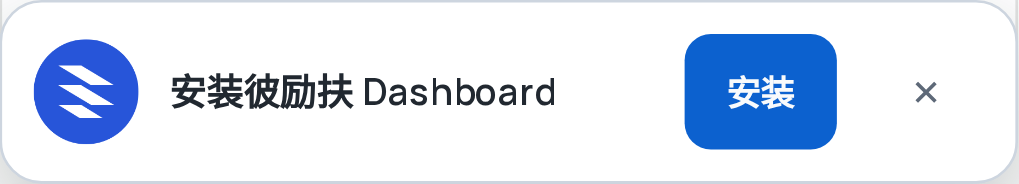
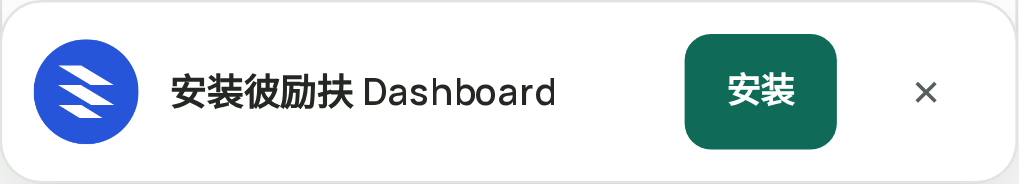
fix(前端): 修正 PWA 安装提示的 Dock 避让与主题

Changed region(s): [[0.6693, 0.163, 0.8214, 0.8152], [0.8822, 0.462, 0.9431, 0.5435]]

diff --git a/frontend/components/pwa/pwa-install-prompt.module.css b/frontend/components/pwa/pwa-install-prompt.module.css
@@ -52,7 +52,7 @@
   line-height: 1.45;
 }
 
-.install {
+.prompt .install {
   min-height: 44px;
   padding: 0 16px;
   color: var(--warm-ledger-color-on-accent, hsl(var(--primary-foreground)));
@@ -65,12 +65,12 @@
   cursor: pointer;
 }
 
-.install:disabled {
+.prompt .install:disabled {
   cursor: wait;
   opacity: 0.7;
 }
 
-.close {
+.prompt .close {
   display: inline-grid;
   width: 44px;
   height: 44px;
@@ -86,14 +86,14 @@
   cursor: pointer;
 }
 
-.install:focus-visible,
-.close:focus-visible {
+.prompt .install:focus-visible,
+.prompt .close:focus-visible {
   outline: 2px solid
     var(--warm-ledger-focus-color, hsl(var(--ring)));
   outline-offset: 2px;
 }
 
-@media (max-width: 430px) {
+@media (max-width: 767px) {
   .shell {
     bottom: calc(78px + env(safe-area-inset-bottom, 0px));
   }

diff --git a/frontend/components/pwa/pwa-install-prompt.test.tsx b/frontend/components/pwa/pwa-install-prompt.test.tsx
@@ -100,7 +100,9 @@ describe('PwaInstallPrompt', () => {
 
     render(<PwaInstallPrompt />)
 
-    expect(await screen.findByTestId('pwa-install-prompt')).toBeInTheDocument()
+    const promptElement = await screen.findByTestId('pwa-install-prompt')
+    expect(promptElement).toBeInTheDocument()
+    expect(promptElement.parentElement).toHaveClass('warm-ledger')
     expect(register).toHaveBeenCalledWith('/sw.js', { scope: '/' })
 
     await userEvent.click(screen.getByRole('button', { name: '安装' }))

diff --git a/frontend/components/pwa/pwa-install-prompt.tsx b/frontend/components/pwa/pwa-install-prompt.tsx
@@ -110,7 +110,7 @@ export function PwaInstallPrompt() {
   }
 
   return (
-    <div className={styles.shell}>
+    <div className={`warm-ledger ${styles.shell}`}>
       <section
         className={styles.prompt}
         aria-label="安装应用"
